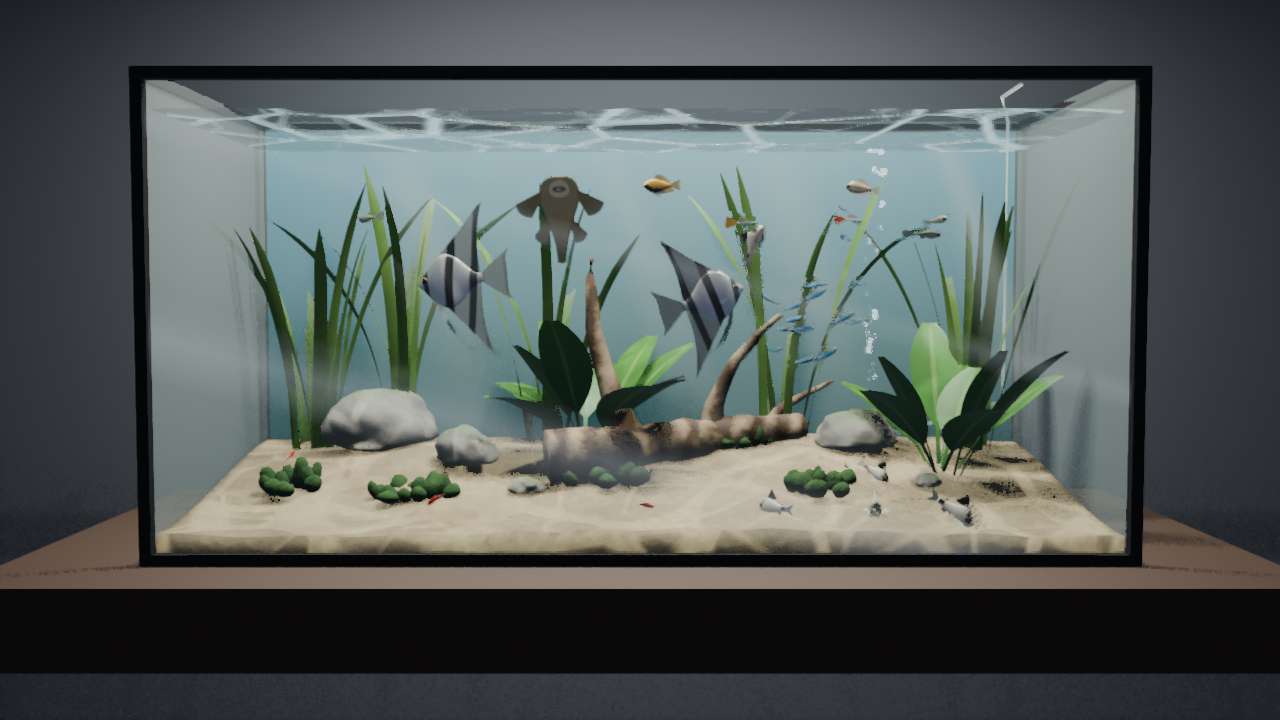
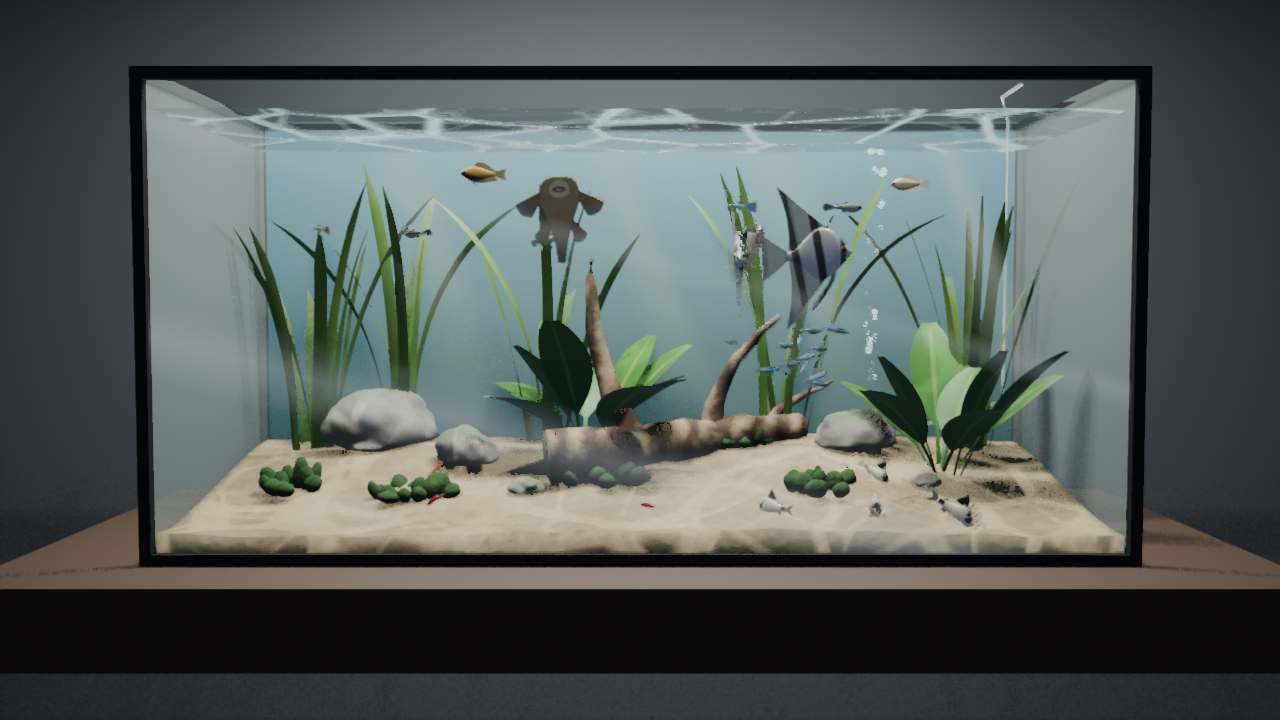
Bring the full tank back within the 48 fps budget by taking the fish caustics off the moving projector
The angelfish and honey gourami bodies read the CausticProjector's object
space, and the game moves that empty every frame, which cost about 1 ms of
rendering per body.  They now read the projector's place from their object
color (FISH_CAUSTIC), which tankful.game.scenery sets each frame: the same
pattern, 47-51 fps instead of 37-42.  docs/harness.md gets per-species
measurements and the new rule, and 06-bottom-feeders.png is retaken with
every species in.

diff --git a/tests/test_scenery.py b/tests/test_scenery.py
@@ -1,0 +1,123 @@
+import ast
+import os
+import unittest
+from unittest import mock
+
+from tankful import launcher
+from tankful.game import scenery
+
+
+class FakeObjects(list):
+  """A scene's objects, as the player's CListValue: a list with get."""
+
+  def get(self, name):
+    for obj in self:
+      if obj.name == name:
+        return obj
+    return None
+
+
+class FakeObject:
+
+  def __init__(self, name, groups=(), position=(0.0, 0.0, 0.0)):
+    self.name = name
+    self.worldPosition = list(position)
+    self.color = (1.0, 1.0, 1.0, 1.0)
+    slots = []
+    for group in groups:
+      node = mock.Mock(bl_idname='ShaderNodeGroup')
+      node.node_tree.name = group
+      material = mock.Mock()
+      material.node_tree.nodes = [mock.Mock(bl_idname='ShaderNodeBsdfPrincipled'),
+                                  node]
+      slots.append(mock.Mock(material=material))
+    if groups:
+      self.blenderObject = mock.Mock(material_slots=slots)
+
+
+def make_scenery(objects):
+  pool = mock.Mock(capacity=0)
+  with mock.patch.object(scenery.log, 'warning'):
+    return scenery.Scenery(mock.Mock(objects=FakeObjects(objects)), pool)
+
+
+class ReadsGroupTest(unittest.TestCase):
+
+  def test_finds_group_in_any_slot(self):
+    obj = FakeObject('Fish', groups=('Other', scenery.FISH_CAUSTIC))
+    self.assertTrue(scenery.reads_group(obj, scenery.FISH_CAUSTIC))
+
+  def test_other_groups_do_not_count(self):
+    obj = FakeObject('Sand', groups=('CausticProjection',))
+    self.assertFalse(scenery.reads_group(obj, scenery.FISH_CAUSTIC))
+
+  def test_object_without_blender_object(self):
+    self.assertFalse(scenery.reads_group(FakeObject('Empty'),
+                                         scenery.FISH_CAUSTIC))
+
+  def test_empty_slot_and_material_without_nodes(self):
+    no_nodes = mock.Mock()
+    no_nodes.node_tree = None
+    obj = FakeObject('Fish')
+    obj.blenderObject = mock.Mock(material_slots=[
+      mock.Mock(material=None), mock.Mock(material=no_nodes)])
+    self.assertFalse(scenery.reads_group(obj, scenery.FISH_CAUSTIC))
+
+
+class CausticFollowersTest(unittest.TestCase):
+
+  HOME = (0.0, 0.0, 0.62)
+
+  def setUp(self):
+    self.projector = FakeObject(scenery.PROJECTOR, position=self.HOME)
+    self.fish = FakeObject('Angelfish.0', groups=(scenery.FISH_CAUSTIC,))
+    self.sand = FakeObject('Sand', groups=('CausticProjection',))
+    self.scenery = make_scenery([self.projector, self.fish, self.sand])
+
+  def test_only_fish_caustic_readers_follow(self):
+    self.assertEqual(self.scenery.caustic_followers, [self.fish])
+    self.assertEqual(self.scenery.snapshot()['caustic_followers'], 1)
+
+  def test_color_gives_the_projector_place(self):
+    # The fish group reads the projector at home + (r - bias, g - bias, -b)
+    # (tools/scene_env.py, caustic_group)
+    for t in (0.0, 3.5, 60.0, 3600.0):
+      self.scenery._move_projector(t)
+      r, g, b, a = self.fish.color
+      bias = scenery.CAUSTIC_BIAS
+      place = (self.HOME[0] + r - bias, self.HOME[1] + g - bias,
+               self.HOME[2] - b)
+      for got, want in zip(place, self.projector.worldPosition):
+        self.assertAlmostEqual(got, want)
+      # The player's object color is never negative
+      self.assertTrue(min(r, g, b) >= 0.0, (t, self.fish.color))
+      self.assertEqual(a, 1.0)
+
+  def test_others_keep_their_color(self):
+    self.scenery._move_projector(10.0)
+    self.assertEqual(self.sand.color, (1.0, 1.0, 1.0, 1.0))
+
+
+class SharedConstantsTest(unittest.TestCase):
+
+  def test_scene_builder_agrees(self):
+    # tools/scene_env.py needs bpy, so read its constants from the source
+    path = os.path.join(launcher.ROOT, 'tools', 'scene_env.py')
+    with open(path) as f:
+      tree = ast.parse(f.read())
+    values = {}
+    for node in tree.body:
+      if isinstance(node, ast.Assign) and len(node.targets) == 1:
+        target = node.targets[0]
+        if isinstance(target, ast.Name):
+          try:
+            values[target.id] = ast.literal_eval(node.value)
+          except ValueError:
+            pass
+    self.assertEqual(values['FISH_CAUSTIC'], scenery.FISH_CAUSTIC)
+    self.assertEqual(values['CAUSTIC_BIAS'], scenery.CAUSTIC_BIAS)
+    self.assertEqual(values['PROJECTOR'], scenery.PROJECTOR)
+
+
+if __name__ == '__main__':
+  unittest.main()

diff --git a/tools/scene_env.py b/tools/scene_env.py
@@ -10,7 +10,9 @@ shader reads its pattern through the CausticProjection node group, which
 projects a caustic pattern down from the CausticProjector empty above the
 tank.  The game moves that empty each frame (tankful.game.scenery), which
 moves the caustics on the sand, rocks and plants, the shimmer on the
-water surface and the flicker of the god rays together.
+water surface and the flicker of the god rays together.  The fish bodies
+read the same pattern through FISH_CAUSTIC, which follows the projector
+through their object color (caustic_group).
 """
 
 import math
@@ -28,6 +30,12 @@ PROJECTOR = 'CausticProjector'
 # How fast W, the caustic pattern's time axis, runs per unit the projector
 # sinks (the game sinks it by CAUSTIC_SPEED per second)
 CAUSTIC_W = 0.8
+# The caustic group the fish bodies read: it follows the projector
+# through their object color (caustic_group)
+FISH_CAUSTIC = 'CausticProjection.Fish'
+# Added to the projector's drift in that color, to keep it positive
+# (tankful.game.scenery.CAUSTIC_BIAS)
+CAUSTIC_BIAS = 1.0
 
 
 def build_environment(scene, tank, mats):
@@ -36,6 +44,7 @@ def build_environment(scene, tank, mats):
   projector.location = (0, 0, env.TANK_H + 0.2)
   scene.collection.objects.link(projector)
   caustic = caustic_group(projector)
+  caustic_group(projector, FISH_CAUSTIC, 'object_color')
 
   build_back_panel(scene, tank)
   build_sand(scene, tank, caustic)
@@ -144,15 +153,23 @@ def new_material(name, blended=False):
   return mat, Tree(mat.node_tree), nodes['Material Output']
 
 
-def caustic_group(projector):
+def caustic_group(projector, name='CausticProjection', follow='projector'):
   """A node group whose Caustic output is the moving caustic light.
 
   The pattern is two layers of Voronoi cell edges, wobbled by noise, in
   the projector's object space: x and y across the tank, and its z as the
   4D Voronoi's W, so sinking the projector evolves the pattern.  Light
   falls from above, so it fades on surfaces that face away from it.
+
+  follow 'object_color' makes the group the fish bodies use
+  (FISH_CAUSTIC): the same pattern, but with the projector's place read
+  from each object's color, which the game sets as the projector moves
+  (tankful.game.scenery, CAUSTIC_BIAS), instead of from the projector.
+  Every object whose material reads a moving object's space is redrawn
+  at a cost each frame: about 1 ms for each fish body (docs/harness.md,
+  "Frame budget").
   """
-  group = bpy.data.node_groups.new('CausticProjection', 'ShaderNodeTree')
+  group = bpy.data.node_groups.new(name, 'ShaderNodeTree')
   group.interface.new_socket('Caustic', in_out='OUTPUT',
                              socket_type='NodeSocketFloat')
   # The pattern without the fade, for the water surface seen from below
@@ -160,9 +177,25 @@ def caustic_group(projector):
                              socket_type='NodeSocketFloat')
   t = Tree(group)
   out = t.add('NodeGroupOutput')
-  coords = t.add('ShaderNodeTexCoord', {'object': projector})
+  if follow == 'projector':
+    coords = t.add('ShaderNodeTexCoord', {'object': projector}).outputs['Object']
+  else:
+    # The color is the projector's drift in x and y, each plus CAUSTIC_BIAS,
+    # and how far it has sunk: never negative, as the color cannot be
+    info = t.add('ShaderNodeObjectInfo')
+    rgb = t.add('ShaderNodeSeparateColor')
+    t.link(info.outputs['Color'], rgb.inputs[0])
+    home = projector.location
+    place = t.add('ShaderNodeCombineXYZ',
+                  X=t.math('ADD', rgb.outputs['Red'], home.x - CAUSTIC_BIAS),
+                  Y=t.math('ADD', rgb.outputs['Green'], home.y - CAUSTIC_BIAS),
+                  Z=t.math('SUBTRACT', home.z, rgb.outputs['Blue']))
+    rel = t.add('ShaderNodeVectorMath', {'operation': 'SUBTRACT'})
+    t.link(t.add('ShaderNodeNewGeometry').outputs['Position'], rel.inputs[0])
+    t.link(place.outputs[0], rel.inputs[1])
+    coords = rel.outputs[0]
   xyz = t.add('ShaderNodeSeparateXYZ')
-  t.link(coords.outputs['Object'], xyz.inputs[0])
+  t.link(coords, xyz.inputs[0])
   w = t.math('MULTIPLY', xyz.outputs['Z'], CAUSTIC_W)
   flat = t.add('ShaderNodeCombineXYZ', X=xyz.outputs['X'], Y=xyz.outputs['Y'])
   warp = t.add('ShaderNodeTexNoise', {'noise_dimensions': '4D'},

diff --git a/tankful/game/scenery.py b/tankful/game/scenery.py
@@ -5,7 +5,9 @@ named after tankful.sim.environment's layout:
 
 - CausticProjector: an empty whose object space every caustic, shimmer
   and god-ray shader reads; sinking it runs the pattern's time axis and
-  drifting it moves the pattern across the tank.
+  drifting it moves the pattern across the tank.  The fish bodies read
+  where it is from their object color instead (FISH_CAUSTIC), which is
+  set as it moves.
 - <plant>.Rig: an armature per plant with a chain of bones L<leaf>.<bone>
   per leaf, bent by tankful.sim.sway.
 - Bubble.NN: one object per slot of the tankful.sim.bubbles pool, moved,
@@ -27,6 +29,11 @@ PROJECTOR = 'CausticProjector'
 # tools/build_scene.py), which smears shading that changes quickly: much
 # faster than this and the caustics wash out to a flat glow
 CAUSTIC_SPEED = 0.1
+# The caustic group of the objects that read the projector's place from
+# their color, and what is added to its drift there to keep it positive
+# (tools/scene_env.py, caustic_group)
+FISH_CAUSTIC = 'CausticProjection.Fish'
+CAUSTIC_BIAS = 1.0
 
 
 class Scenery:
@@ -38,6 +45,8 @@ class Scenery:
       log.warning('no %s in the scene: caustics stay still', PROJECTOR)
     self._projector_home = (list(self.projector.worldPosition)
                             if self.projector is not None else None)
+    self.caustic_followers = [obj for obj in objects
+                              if reads_group(obj, FISH_CAUSTIC)]
     self.plants = []
     for plant in env.plants():
       rig = objects.get(plant.name + '.Rig')
@@ -71,10 +80,13 @@ class Scenery:
       return
     x, y, z = self._projector_home
     # Sinking runs the pattern's time; a slow drift slides it along
-    self.projector.worldPosition = (
-      x + 0.02 * math.sin(0.05 * t) + 0.003 * t,
-      y + 0.015 * math.cos(0.04 * t),
-      z - CAUSTIC_SPEED * t)
+    dx = 0.02 * math.sin(0.05 * t) + 0.003 * t
+    dy = 0.015 * math.cos(0.04 * t)
+    sunk = CAUSTIC_SPEED * t
+    self.projector.worldPosition = (x + dx, y + dy, z - sunk)
+    color = (dx + CAUSTIC_BIAS, dy + CAUSTIC_BIAS, sunk, 1.0)
+    for obj in self.caustic_followers:
+      obj.color = color
 
   def _sway(self, t):
     for plant, rig, chains in self.plants:
@@ -105,6 +117,24 @@ class Scenery:
     return {
       'bubbles': self.pool.snapshot(),
       'plants': len(self.plants),
+      'caustic_followers': len(self.caustic_followers),
       'projector': [round(v, 3) for v in self.projector.worldPosition]
       if self.projector is not None else None,
     }
+
+
+def reads_group(obj, group_name):
+  """Whether a material of obj (a KX_GameObject) uses the node group
+  group_name directly in its node tree."""
+  blender_obj = getattr(obj, 'blenderObject', None)
+  if blender_obj is None:
+    return False
+  for slot in blender_obj.material_slots:
+    tree = slot.material.node_tree if slot.material else None
+    if tree is None:
+      continue
+    for node in tree.nodes:
+      if (node.bl_idname == 'ShaderNodeGroup' and node.node_tree is not None
+          and node.node_tree.name == group_name):
+        return True
+  return False

diff --git a/tools/species/honey_gourami.py b/tools/species/honey_gourami.py
@@ -371,7 +371,7 @@ def materials(prefix, colors, caustic):
 
 def build(scene, caustic=None):
   if caustic is None:
-    caustic = bpy.data.node_groups['CausticProjection']
+    caustic = bpy.data.node_groups[scene_env.FISH_CAUSTIC]
   mats = {'male': materials('HoneyGouramiMale', MALE, caustic),
           'female': materials('HoneyGouramiFemale', FEMALE, caustic)}
   for res in sim_gourami.residents():

diff --git a/tools/species/angelfish.py b/tools/species/angelfish.py
@@ -321,7 +321,7 @@ def fin_material(name, alpha, clear, ray_alpha=0.12, opaque=False):
 
 def build(scene, caustic=None):
   if caustic is None:
-    caustic = bpy.data.node_groups['CausticProjection']
+    caustic = bpy.data.node_groups[scene_env.FISH_CAUSTIC]
   mats = {
     'body': body_material(caustic),
     'eye': scene_fish.eye_material('AngelfishEye', ANGEL_EYE),

diff --git a/docs/harness.md b/docs/harness.md
@@ -233,7 +233,9 @@ neither was tried.
   clear fins with no detail, the angelfish's pectorals and the tetras'
   fins, stay blended.
 - The caustic projection on the fins cost about 3 fps for the two
-  angelfish (a moving pattern on moving sheets), so fins have none.
+  angelfish, so fins have none.  That was most likely the cost of
+  reading the moving projector's space, not of the moving pattern (see
+  "Frame budget").
 - A bone's scale animates in the player (`channel.scale`), as its
   rotation does: the pleco's sucker disc and jaws work that way
   (`tankful.sim.species.pleco.scales`).
@@ -264,13 +266,55 @@ slower for these last two rows than for the earlier ones, and single
 readings on both dipped as low as 30-44 fps; repeat a run before
 trusting one low reading.
 
+With all seven species in (35 fish), the tank fell to 37-42 fps.  On a
+quiet machine, with each species taken out in turn (a project copy
+without its `tools/species/<name>.py`), two runs of three readings each:
+
+| Tank (2026-10-16, all seven species) | fps | Logic / Depsgraph / Rasterizer (ms) |
+|---|---|---|
+| No fish at all | 52-57 | 0.4 / 1.7 / 10.3 |
+| The step 5 tank again | 54-55 | 2.0 / 2.6 / 13.3 |
+| Every species | 37-42 | 3.7 / 3.5 / 17.4 |
+| Without the angelfish (2) | 45-48 | 3.4 / 3.1 / 14.6 |
+| Without the neon tetras (15) | 45-48 | 1.7 / 2.9 / 16.6 |
+| Without the honey gouramis (2) | 44-49 | 3.3 / 3.1 / 14.6 |
+| Without the corydoras (5) | 42-44 | 3.5 / 3.1 / 16.4 |
+| Without the guppies (6) | 42-43 | 3.0 / 3.3 / 16.9 |
+| Without the cherry shrimp (5) | 41-43 | 3.2 / 3.3 / 16.9 |
+| Without the pleco | 40-41 | 3.6 / 3.3 / 17.4 |
+| Every species, fish bodies off the projector (below) | 47-51 | 3.7 / 3.2 / 13.0 |
+| For comparison: every species, the projector held still | 54-59 | 3.8 / 3.4 / 3.7 |
+
+So the angelfish and the gouramis cost the most: about 2.5 ms of
+`Rasterizer` per pair, all of it from the caustic projection on their
+bodies (with it taken off, the full tank ran 48-51 fps; making the
+gouramis' pectorals opaque, or giving both gouramis one set of
+materials, changed nothing).  The cost is not the pattern's shading:
+3D Voronoi and noise instead of 4D made no difference.  It is that their
+materials read the space of the CausticProjector, which the game moves
+every frame: an object whose material reads a moving object's space is
+redrawn at a cost each frame, about 1 ms for each fish body, and the
+scenery's caustics (sand, rocks, plants, water and god rays), which read
+it the same way, cost about 13 ms of the frame between them (the last
+row).  The fish bodies now read the projector's place from their object
+color instead (`FISH_CAUSTIC`, `caustic_group` in `tools/scene_env.py`),
+which `tankful.game.scenery` sets on them as it moves the projector:
+the same pattern, rendered side by side to within 1/255, at no
+measurable cost.  The tetras' 2 ms is in `Logic`, the sim's step and
+the game's posing of the fish, which grew from about 2 ms at step 5 to
+3.7 ms with all 35 fish.  The pleco, the corydoras,
+the guppies and the shrimp cost 0-2 fps each, near the readings' spread.
+
 So for more fish:
 
 - Small fish that come in numbers go in one object per group, as the
   school does.  A fish with its own rig costs about 0.4 fps.
 - Small fish get a plain material: no caustic projection and no thin
   film (`tools/species/neon_tetra.py`).
+- A fish with caustics on its body reads them through `FISH_CAUSTIC`,
+  never the scenery's `CausticProjection` group, and no fish material
+  reads another object's space (a Texture Coordinate node's Object).
 - No fish casts a shadow.
-- The sim's step for 17 fish takes about 1 ms (`Logic`); it checks the
-  decor only near each fish, and school members' bodies only against
-  near neighbors.
+- The sim's step for 17 fish takes about 1 ms (`Logic`), and for all 35
+  about 3.7 ms; it checks the decor only near each fish, and school
+  members' bodies only against near neighbors.
